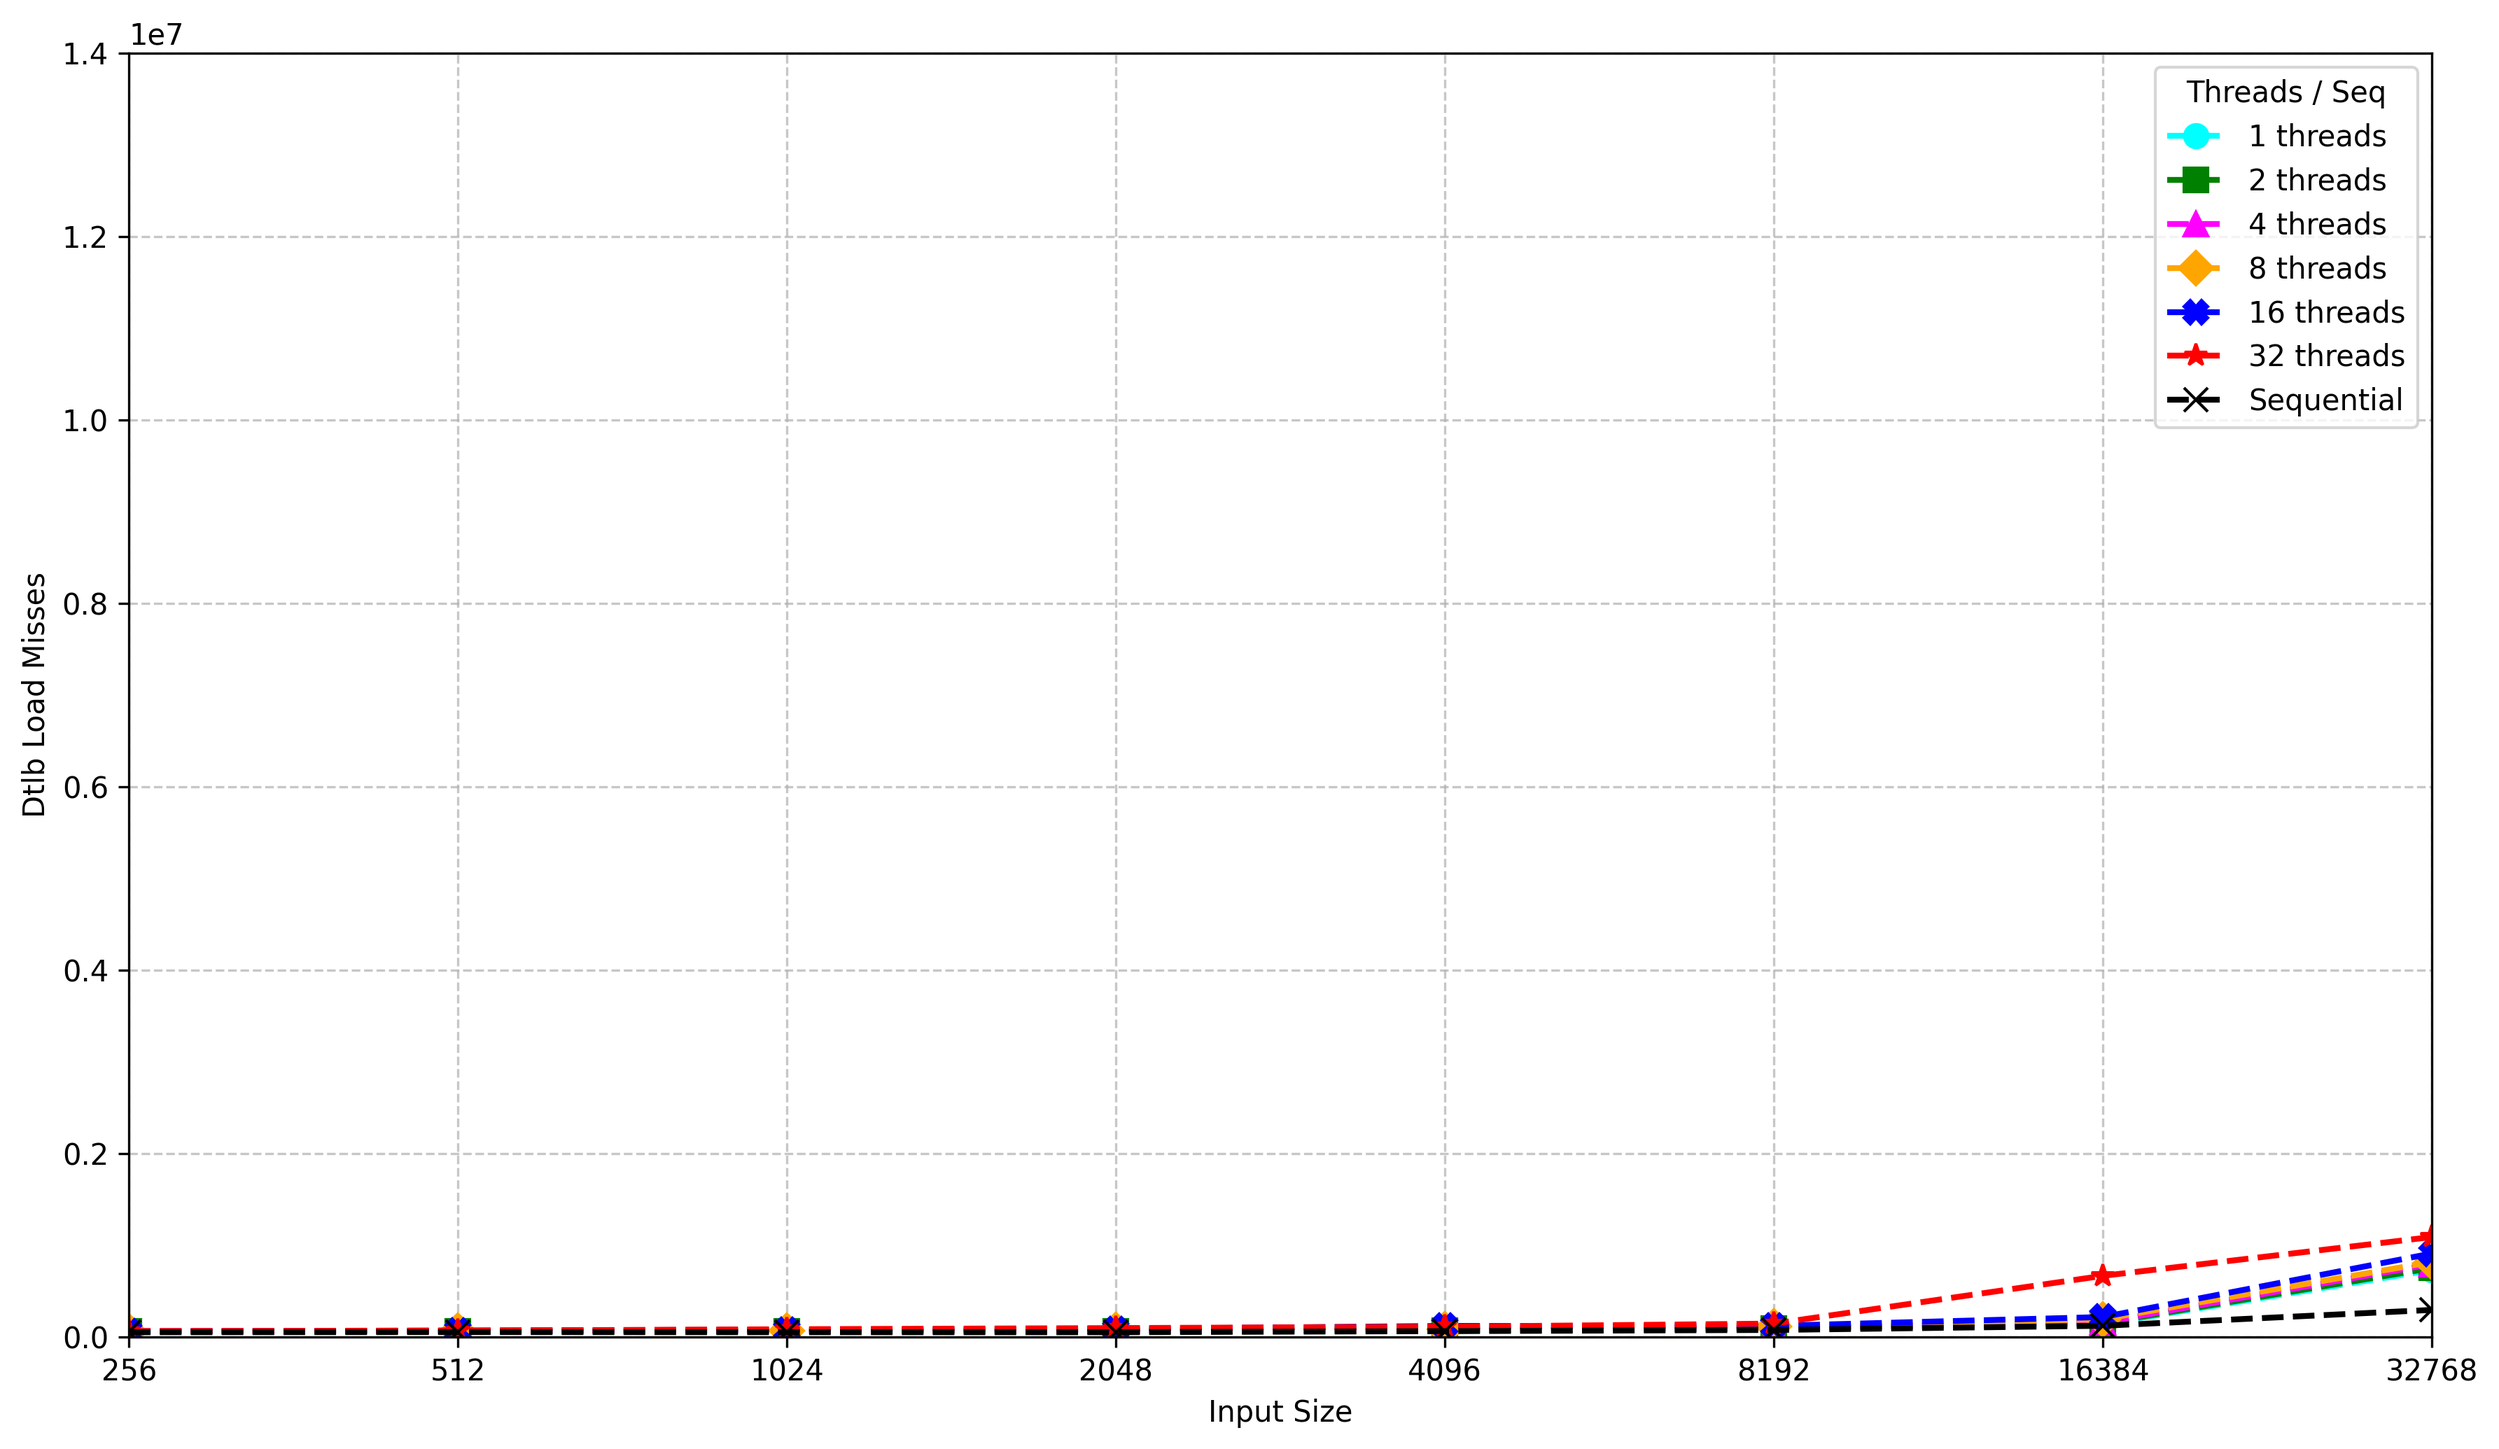
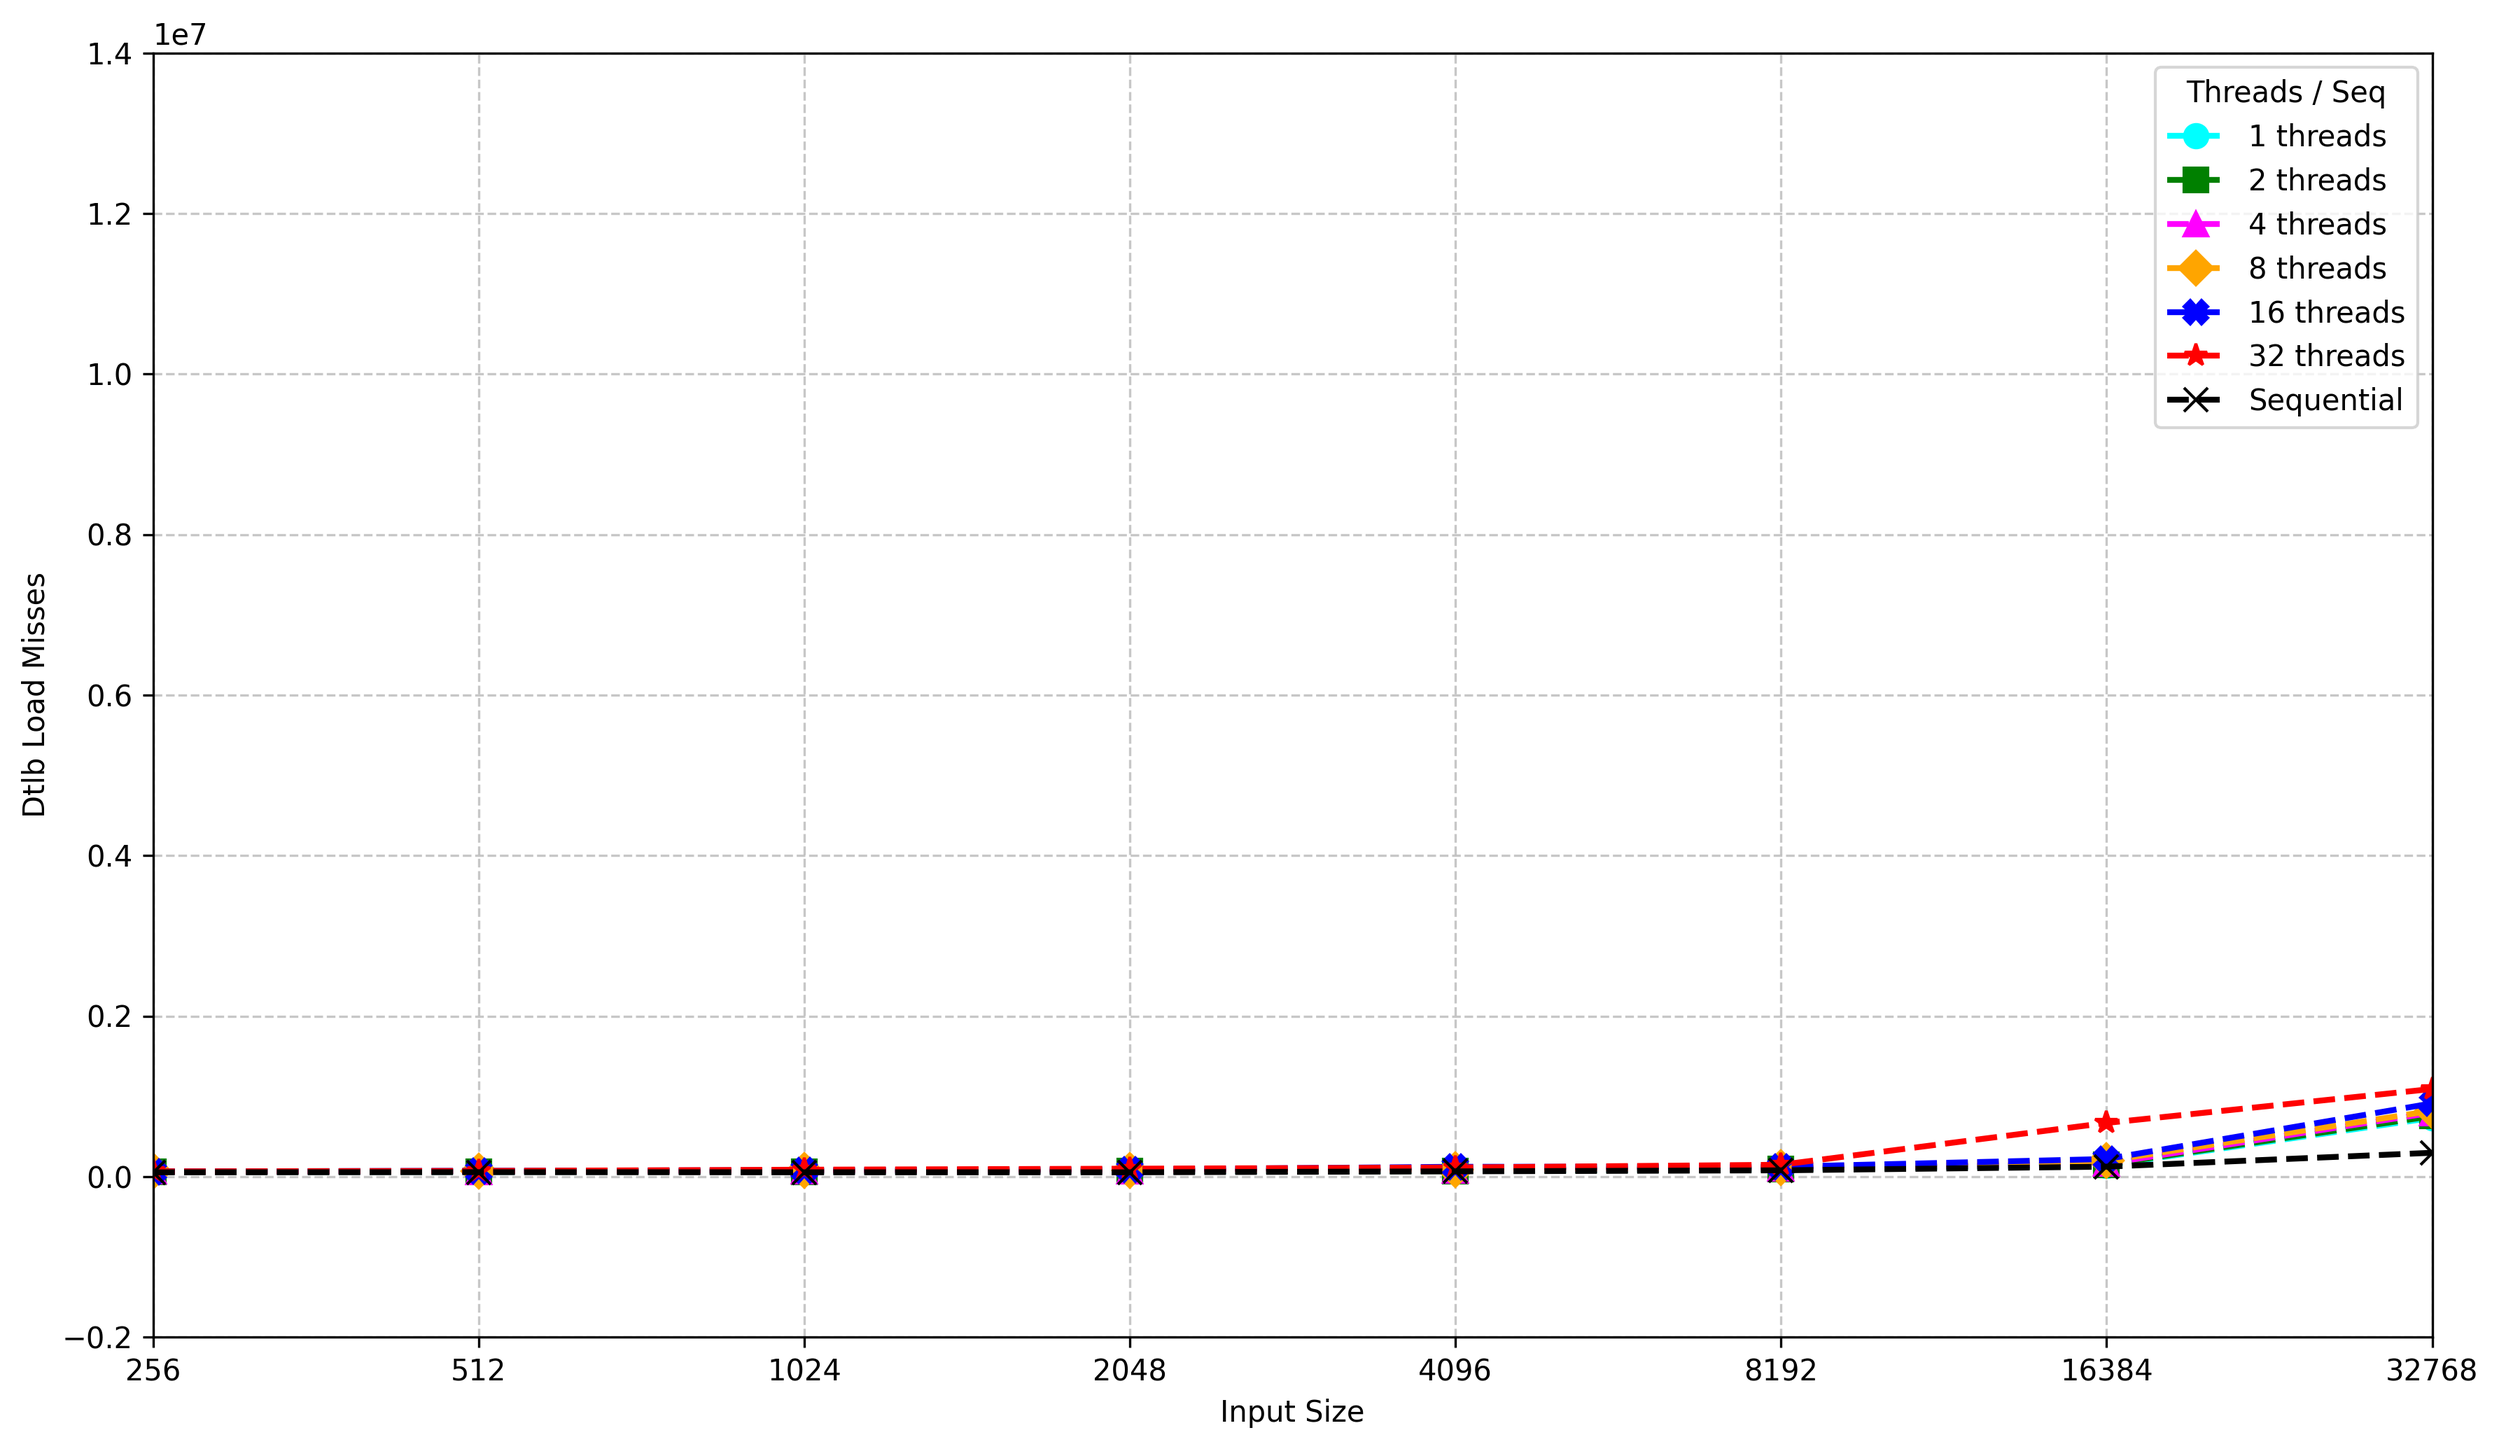
fix for not shwoing below 0 on y-axis for most mandelbrot perf vals and spectral norm cache

diff --git a/Assignment2/plots/new_plot_stuff.py b/Assignment2/plots/new_plot_stuff.py
@@ -81,9 +81,9 @@ thread_markersize = {
 
 metrics_to_divide_with_input_size = {
     "cache_misses",
-    "dtlb_load_misses",
-    "page_faults",
-    "cpu_cycles"
+    #"dtlb_load_misses",
+    #"page_faults",
+    #"cpu_cycles"
 }
 
 #dictionary to control which perf metrics to plot
@@ -125,7 +125,7 @@ baseline_mem_spec_18_05 = round(50058742.58427)
 baseline_mem_spec_19_05 = round(46986934.368715)
 
 #enable log scale for wall_time?:
-log_scale = True
+log_scale = False
 #change log base to something else, e.g 2, 4, 6, etc.
 log_base = 10
 
@@ -1033,7 +1033,10 @@ def graph_time(parallel_csv, sequential_csv=None, data_label="", date_prefix="",
 
     # labels & grid
     ax.set_xlabel('Input Size')
-    ax.set_ylabel('Wall Time Log Scale (ms)')
+    if (log_scale):
+        ax.set_ylabel('Wall Time Log Scale (ms)') 
+    else:
+        ax.set_ylabel('Wall Time (ms)') 
     ax.set_xticks(x_positions)
     ax.set_xticklabels(input_sizes)
     ax.set_xlim(left=min(x_positions), right=max(x_positions))
@@ -1444,7 +1447,7 @@ output_dir=None, independent_metrics=None, metrics_to_normalize_by_input=None, m
         # Pass the determined *scalar* min_y_metric_val and max_y_metric_val
         # find_nice_axis_limits will handle the None/NaN/Inf case with a default range
         # Note: The min_floor is set to 0.0 explicitly here.
-        y0_final, y1_final, step = find_nice_axis_limits(min_y_metric_val, max_y_metric_val, nbins=10, min_floor=0.0, padding_percent_below=15.0, padding_percent_above=5.0)
+        y0_final, y1_final, step = find_nice_axis_limits(min_y_metric_val, max_y_metric_val, nbins=10, min_floor=-0.25, padding_percent_below=15.0, padding_percent_above=5.0)
 
 
         # Add a print for debugging/info
@@ -1672,7 +1675,7 @@ output_dir=None, baseline_mem=None):
         # --- labels & styling ---
         ax.set_xlabel("Input Size")
 
-        ylabel_text = metric.replace("_", " ").title()
+        ylabel_text = "RSS"
         if metric == "free_mem" and baseline_subtract_true:
              ylabel_text = "Memory Used (Baseline - Free Mem)" # Or similar descriptive label
         ylabel_text += " (MB)" # Add units
